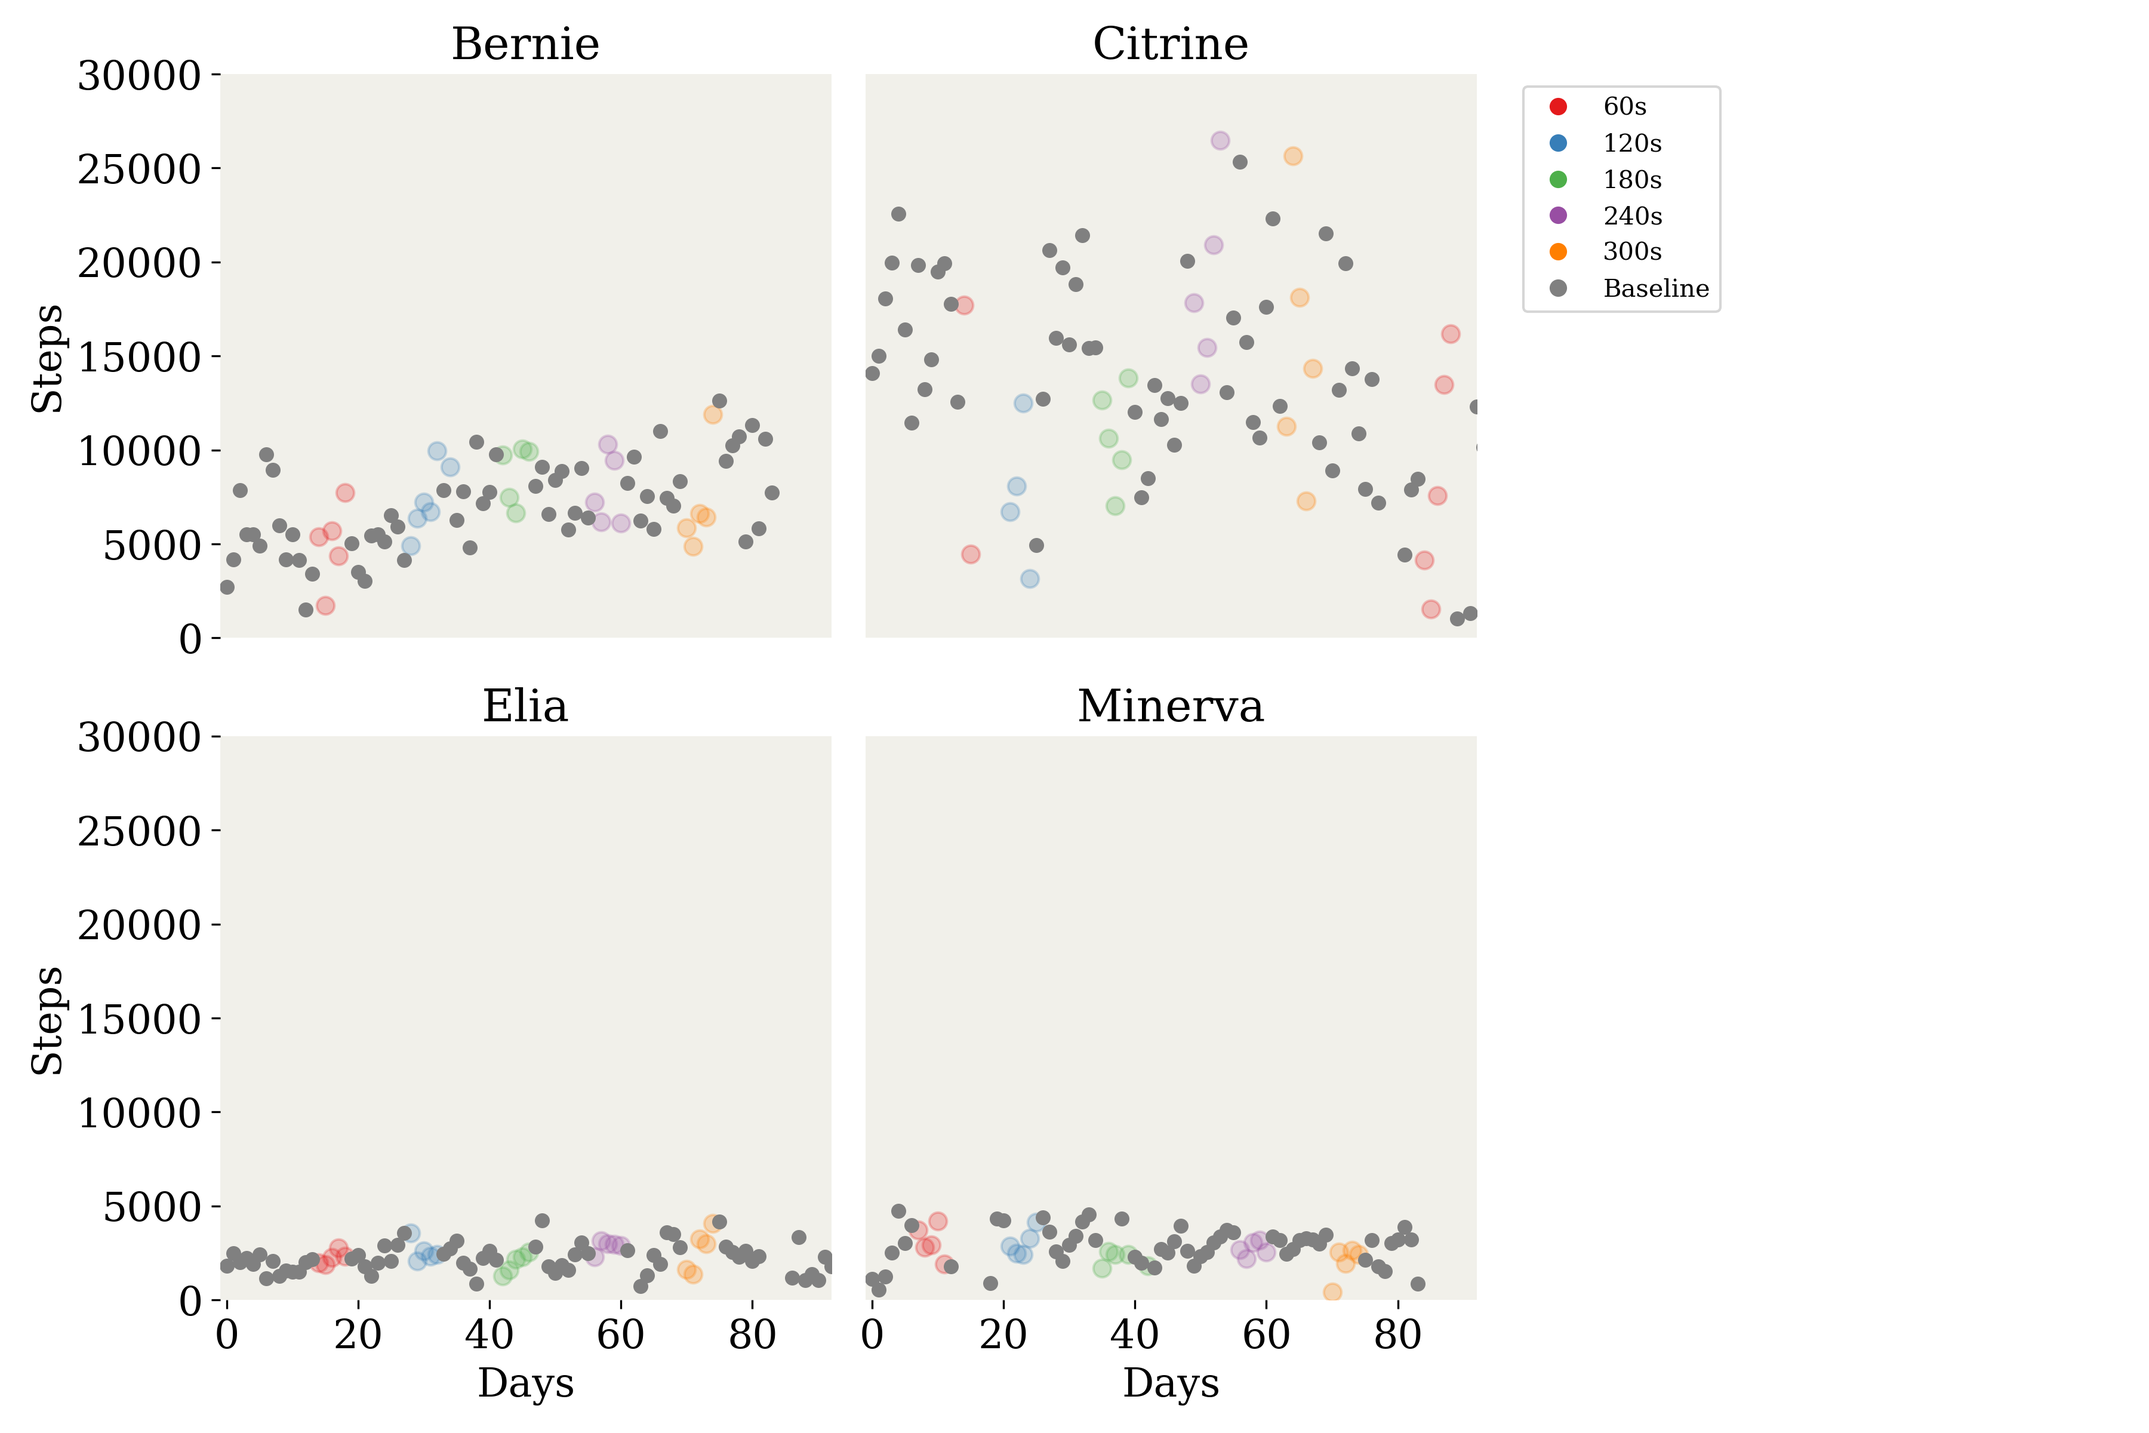
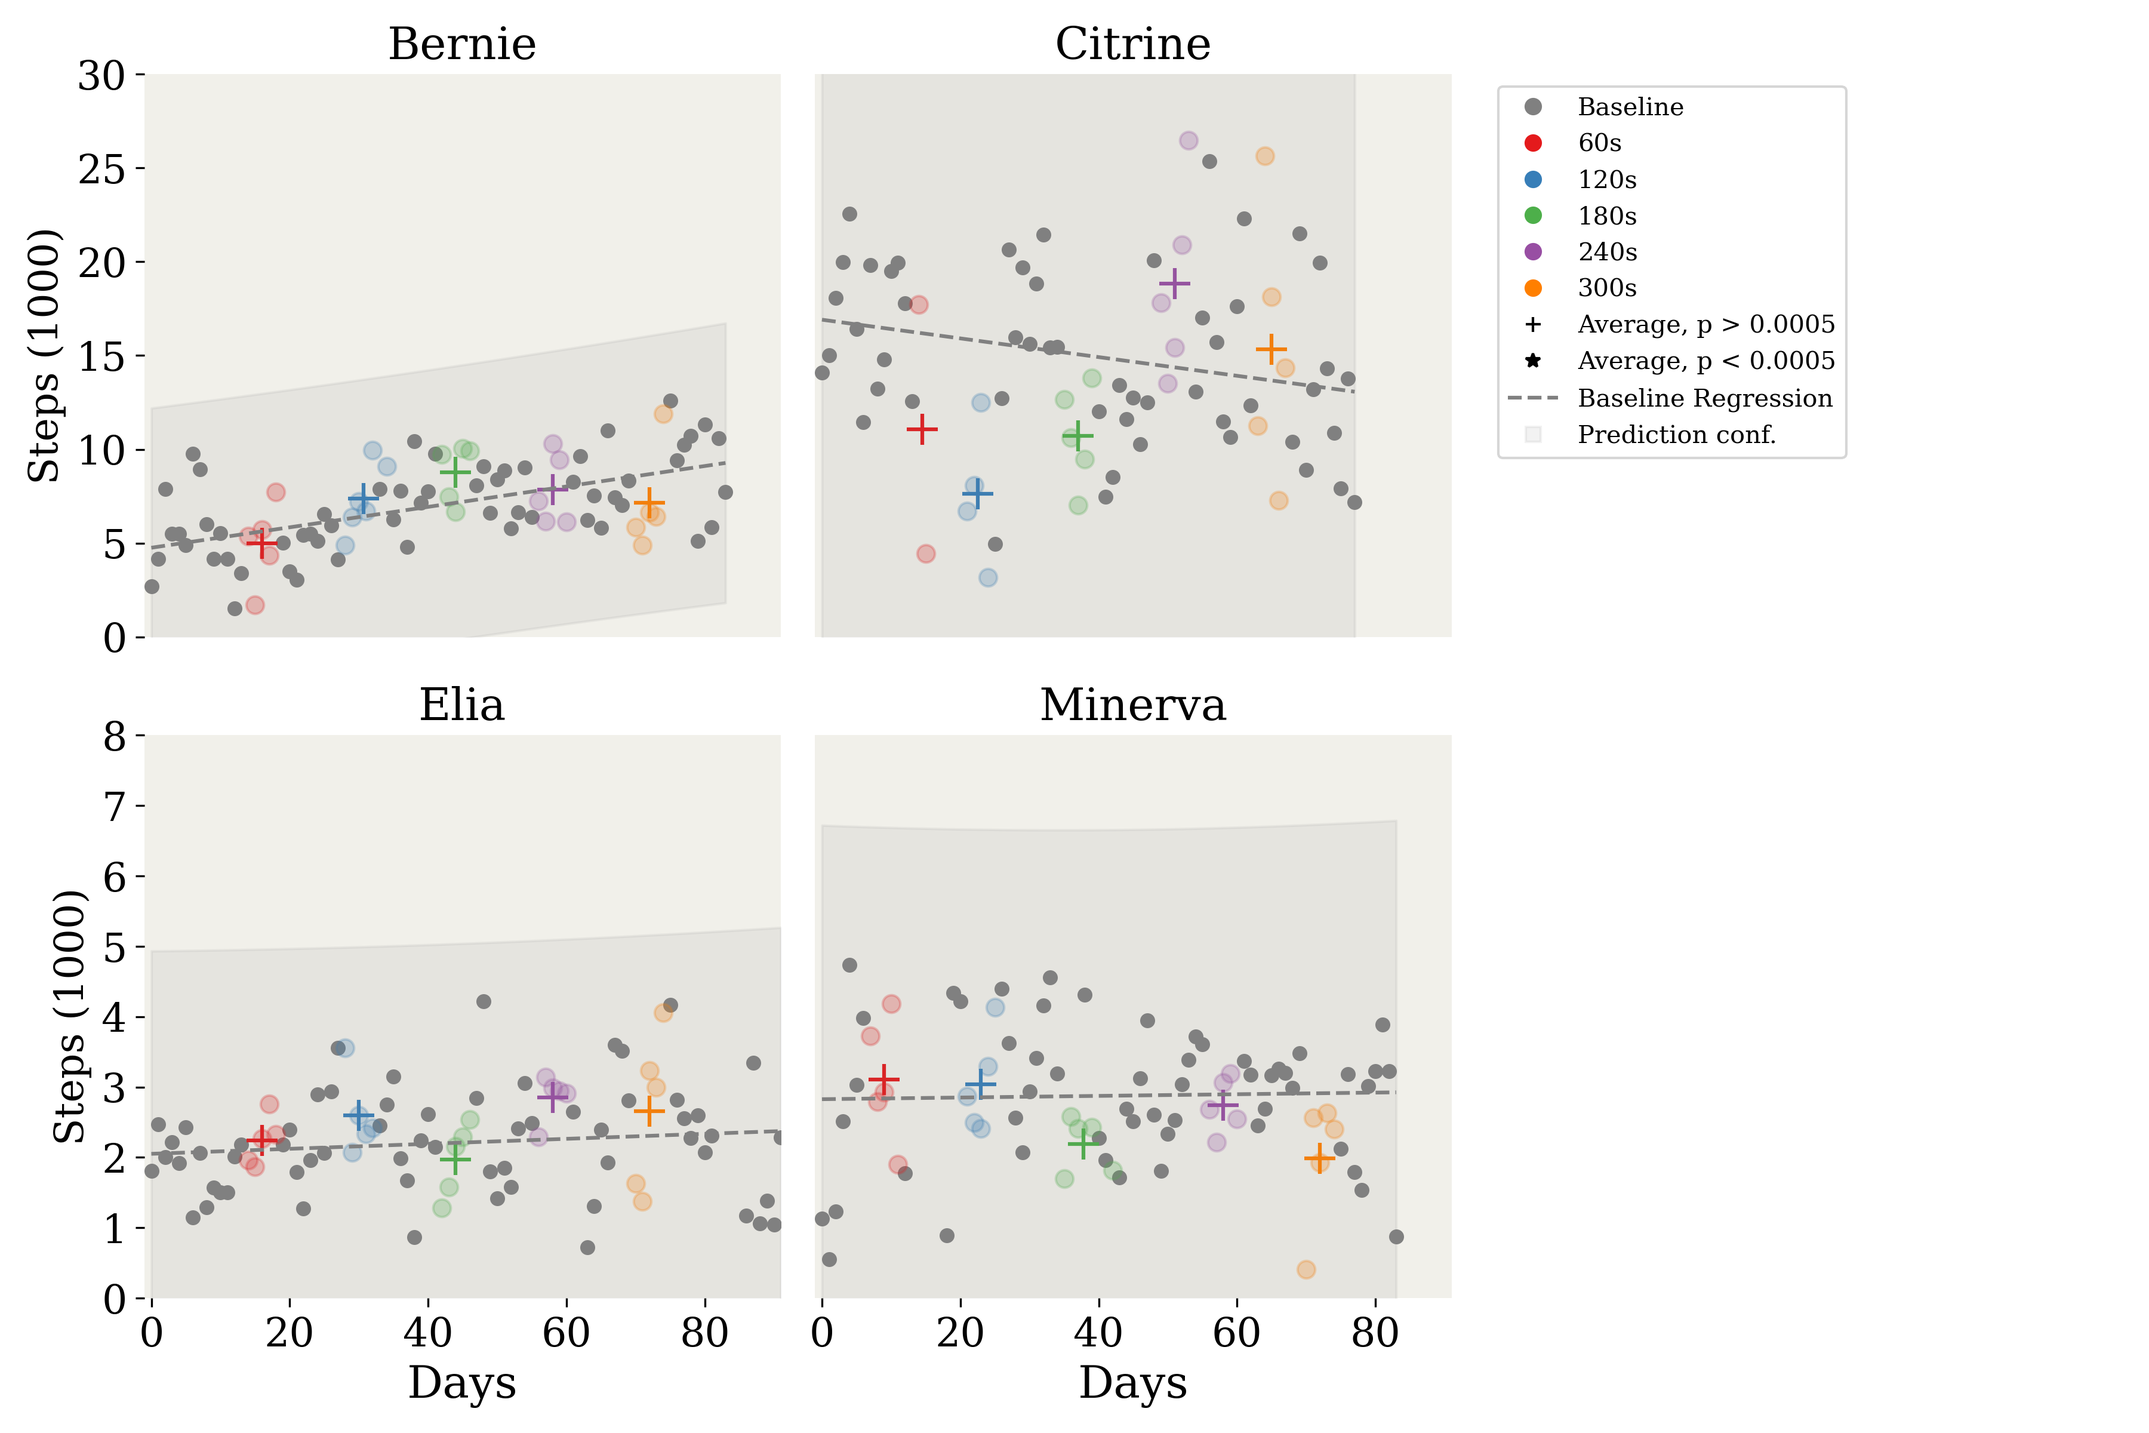
after

diff --git a/SCRIPT_process_steps.py b/SCRIPT_process_steps.py
@@ -1,133 +1,162 @@
 
-from Library import StepAnalysis
-from Library import Legend
-from matplotlib import pyplot as plt
+import numpy
+import numpy as np
+import natsort
+
+from Library import Stats
 from Library import Settings
+from Library import Utils
+from Library import Legend
+from Library import StepAnalysis
+from scipy.stats import ttest_ind
+from matplotlib import pyplot as plt
+from scipy.stats import kstest, norm
 import matplotlib
 
+##########################
+alpha_level = 0.0005
 output_folder = 'steps_output/'
+dependent_variable = 'steps'
+figure_size = (12, 8)
+
+# This is generated by SCRIPT_process_drinking.py
+max_days_per_cat = {'Bernie': 83, 'Citrine': 77, 'Elia': 91, 'Minerva': 83}
+max_day_range = 91
+##########################
 
 matplotlib.rcParams['font.family'] = 'serif'
-data = StepAnalysis.read_data()
-data = data.query('steps > 0')
-#%%
 colors = Settings.colors
+data = StepAnalysis.read_data()
 
-intervention_data = data.query('Intervention == True')
-baseline_data = data.query('Intervention == False')
+cats = list(data.subject.unique())
+cats = natsort.natsorted(cats)
+intervals = data.interval.unique()
+intervals = intervals[~np.isnan(intervals)]
 
-figure_size = (12, 8)
+
 plt.figure(figsize=figure_size)
+tests_output = open(f'{output_folder}statistics_steps.txt', 'w')
 
-# Calculate total steps per Subject, Per Date
-grp = data.groupby(['Subject', 'interval', 'date'], observed=False)
-# Use agg to Create a column that is the sum of steps per group
-# and one that is max of daily_tots per group
-grp = grp.agg({'steps': ['sum', 'count'], 'daily_tots': 'max'})
-grp = grp.reset_index()
-# Save the data to an Excel file in the output folder
-grp.to_excel(f"{output_folder}check_steps.xlsx")
+for plot_index, cat_name in enumerate(cats):
+    if plot_index == 0: plot_nr = 1
+    if plot_index == 1: plot_nr = 2
+    if plot_index == 2: plot_nr = 4
+    if plot_index == 3: plot_nr = 5
 
+    plt.subplot(2, 3, plot_nr)
+    selected_cat = data.query('subject ==@cat_name')
+    selected_cat.loc[:, 'days'] = selected_cat['days'] - numpy.min(selected_cat['days'])
+    max_allowed_day = max_days_per_cat[cat_name]
+    selected_cat = selected_cat.query('days <= @max_allowed_day')
 
-for panel in [1, 2, 4, 5]:
-    if panel == 1: cat = 'Bernie'
-    if panel == 2: cat = 'Citrine'
-    if panel == 4: cat = 'Elia'
-    if panel == 5: cat = 'Minerva'
+    grp = selected_cat.groupby(['days', 'interval', 'Intervention'], observed=False)
+    grp = grp['steps'].sum()
+    selected_cat = grp.reset_index()
+    selected_cat['steps'] = selected_cat['steps'] / 1000
+    selected_cat = selected_cat.query('steps > 0') # Remove the days where the cat did not wear the Fitbit
+
+    # Run regression on baseline data
+    base_line_data = selected_cat.query('Intervention == False')
+    regression_result = Stats.regression(base_line_data, dependent_variable, alpha_level)
+    residuals = regression_result['residuals']
 
     custom_legend = Legend.CustomLegend()
+    for interval in intervals:
+        selected_interval_data = selected_cat.query('interval == @interval')
 
-    plt.subplot(2, 3, panel)
+        transparency = 1
+        size = 50
 
-    # Get intervention data for the specific cat
-    selected_intervention = intervention_data.query('Subject == @cat')
-    grp = selected_intervention.groupby(['days_since_first', 'interval'], observed=False)
-    grp = grp['steps'].sum()
-    intervention_steps = grp.reset_index()
-    intervention_steps['steps'] = intervention_steps['steps']
+        if interval > 0: transparency = 0.25
+        if interval == 0: size = 25
+        interval_str = str(int(interval))
+        if interval_str == '0': interval_str = 'baseline'
+        plt.scatter(selected_interval_data.days, selected_interval_data[dependent_variable], color=colors[interval_str], alpha=transparency, s=size)
+        custom_legend.add_entry(label='Baseline', color='gray', marker='o', linestyle='')
 
-    intervention60 = intervention_steps.query('interval == 60')
-    intervention120 = intervention_steps.query('interval == 120')
-    intervention180 = intervention_steps.query('interval == 180')
-    intervention240 = intervention_steps.query('interval == 240')
-    intervention300 = intervention_steps.query('interval == 300')
+        if interval > 0:
+            current_color = colors[interval_str]
+            mn_day = numpy.mean(selected_interval_data.days)
+            prediction_mean = Stats.predict(regression_result, mn_day)
+            prediction_std = regression_result['prstd']
+            shifted_residuals = residuals + prediction_mean
+            shifted_residuals_std = np.std(shifted_residuals)
+            session_data = selected_interval_data[dependent_variable].values
+            print(shifted_residuals_std, prediction_std)
 
-    # Get baseline data for the specific cat
-    selected_baseline = baseline_data.query('Subject == @cat')
-    grp = selected_baseline.groupby(['days_since_first'], observed=False)
-    grp = grp['steps'].sum()
-    baseline_steps = grp.reset_index()
-    baseline_steps['steps'] = baseline_steps['steps']
+            try:
+                session_data = session_data[~np.isnan(session_data)]
+                stat, ks_result_p = kstest(session_data, 'norm', args=(prediction_mean, shifted_residuals_std))
+            except ValueError as ve:
+                stat = 'NaN'
+                ks_result_p = 1
 
-    # Plot the intervention data
-    transparency = 0.25
-    size = 50
+            formatted1 = Utils.format_ktest_result_apa(stat, ks_result_p, alpha_level)
 
-    plt.scatter(intervention60['days_since_first'], intervention60['steps'], color=colors['60'], label='60s', s=size, alpha=transparency)
-    plt.scatter(intervention120['days_since_first'], intervention120['steps'], color=colors['120'], label='120s', s=size, alpha=transparency)
-    plt.scatter(intervention180['days_since_first'], intervention180['steps'], color=colors['180'], label='180s', s=size, alpha=transparency)
-    plt.scatter(intervention240['days_since_first'], intervention240['steps'], color=colors['240'], label='240s', s=size, alpha=transparency)
-    plt.scatter(intervention300['days_since_first'], intervention300['steps'], color=colors['300'], label='300s', s=size, alpha=transparency)
+            tt_result = ttest_ind(session_data, shifted_residuals)
+            tt_result_p = tt_result[1]
+            formatted2 = Utils.format_ttest_result_apa(tt_result, alpha_level)
 
-    custom_legend.add_entry(label='60s', color= colors['60'], marker='o', linestyle='')
-    custom_legend.add_entry(label='120s', color= colors['120'], marker='o', linestyle='')
-    custom_legend.add_entry(label='180s', color= colors['180'], marker='o', linestyle='')
-    custom_legend.add_entry(label='240s', color= colors['240'], marker='o', linestyle='')
-    custom_legend.add_entry(label='300s', color= colors['300'], marker='o', linestyle='')
+            marker = '+'
+            size = 150
+            if ks_result_p < alpha_level: marker = '*'
+            mn_session = numpy.nanmean(selected_interval_data[dependent_variable])
+            plt.scatter(mn_day, mn_session, marker=marker, s=150, color=current_color)
+            if interval == '60': interval = '  ' + interval
+            custom_legend.add_entry(label=interval_str + 's', color=current_color, marker='o', linestyle='')
+            #print(interval, predicted, mn_session, max_day)
+            print(cat_name, interval, formatted1, formatted2)
+            statistics_line = f'{cat_name}, interval: {interval}, {formatted1}, {formatted2}\n'
+            tests_output.write(statistics_line)
 
-    # Plot the baseline data
-    transparency = 1
-    size = 25
+    custom_legend.add_entry(label=f'Average, p > {alpha_level}', color='black', marker='+', linestyle='')
+    custom_legend.add_entry(label=f'Average, p < {alpha_level}', color='black', marker='*', linestyle='')
+    custom_legend.add_entry(label='Baseline Regression', color='gray', marker='None', linestyle='--')
+    custom_legend.add_entry(label='Observation conf.', color='gray', marker='s', linestyle='None', alpha=0.1)
 
-    plt.scatter(baseline_steps['days_since_first'], baseline_steps['steps'], color='grey', label='Baseline', s=size, alpha=transparency)
-    custom_legend.add_entry(label='Baseline', color='grey', marker='o', linestyle='')
+    Stats.plot_line(regression_result, colors['baseline'])
+    if cat_name in ['Bernie', 'Citrine']: plt.ylim(0, 30)
+    if cat_name in ['Elia', 'Minerva']: plt.ylim(0, 8)
+    plt.xlim(-1, max_day_range)
 
-    # Markup of the plot
-    plt.ylim(0,30000)
-    plt.xlim(-1, 92)
+    plt.title(cat_name, fontsize=18)
+
+    ax = plt.gca()
+
+    if plot_index in [0, 2]: plt.ylabel('Steps (1000)', fontsize=16)
+    if plot_index not in [0,2]: ax.set_yticks([])
+    if plot_index in [0, 1]: ax.set_xticks([])
+    plt.xlabel('Days', fontsize=18)
+    if plot_index in [0, 1]: plt.xlabel('')
+
+    ax.spines['top'].set_visible(False)
+    ax.spines['right'].set_visible(False)
+    ax.spines['left'].set_visible(False)
+    ax.spines['bottom'].set_visible(False)
 
     plt.xticks(fontsize=16)  # X-axis tick labels font size
     plt.yticks(fontsize=16)  # Y-axis tick labels font size
 
     ax = plt.gca()
     ax.set_facecolor('#F1F0EA')
-    ax.spines['top'].set_visible(False)
-    ax.spines['right'].set_visible(False)
-    ax.spines['left'].set_visible(False)
-    ax.spines['bottom'].set_visible(False)
-
-    plt.xlabel('Days', fontsize=16)
-    plt.ylabel('Steps', fontsize=16)
-    plt.title(cat, fontsize=18)
-
-    if panel == 1:
-        plt.xticks([])
-        plt.xlabel('')
-    if panel == 2:
-        plt.xticks([])
-        plt.yticks([])
-        plt.xlabel('')
-        plt.ylabel('')
-    if panel == 4:
-        pass
-    if panel == 5:
-        plt.yticks([])
-        plt.ylabel('')
 
 
 plt.subplot(2, 3, 3)
 plt.axis('off')
 custom_legend.draw_legend('upper left')
 plt.tight_layout()
-
+#
 output_file = f"{output_folder}steps.png"
 plt.savefig(output_file, dpi=300)
 plt.show()
+tests_output.close()
 
-
-# Tests
-test1 = data.query('Subject == "Minerva" & interval in [60, 180]')
-test1.to_excel(f"{output_folder}test1.xlsx")
-
-test2 = data.query('interval==60 & Subject == "Bernie"')
-test2.to_excel(f"{output_folder}test2.xlsx")
+#     # plt.figure()
+#     # plt.hist(residuals, color=colors['baseline'])
+#     # plt.show()
+#
+#
+# # output_file = f"{output_folder}phase_{phase}_averages.xlsx"
+# # grps = data.groupby(['subject', 'interval'])
+# # mn = grps.session.agg(['mean', 'std'])
+# # mn.to_excel(output_file, index=True)

diff --git a/SCRIPT_process_drinking.py b/SCRIPT_process_drinking.py
@@ -17,6 +17,8 @@ alpha_level = 0.0005
 output_folder = 'drinking_output/'
 ##########################
 
+max_days_log = {}
+
 for dependent_variable in ['session', 'overnight', 'total']:
 
     if phase == 1:
@@ -52,6 +54,7 @@ for dependent_variable in ['session', 'overnight', 'total']:
         selected_cat = data.query('subject ==@cat_name')
         selected_cat.loc[:, 'days'] = selected_cat['days'] - numpy.min(selected_cat['days'])
         max_day = numpy.max(selected_cat.days)
+        max_days_log[cat_name] = max_day
         base_line_data = selected_cat.query('interval == "baseline"')
         regression_result = Stats.regression(base_line_data, dependent_variable, alpha_level)
         residuals = regression_result['residuals']
@@ -73,14 +76,13 @@ for dependent_variable in ['session', 'overnight', 'total']:
                 prediction_mean = Stats.predict(regression_result, mn_day)
                 prediction_std =  regression_result['prstd']
                 shifted_residuals = residuals + prediction_mean
-
+                shifted_residuals_std = np.std(shifted_residuals)
                 session_data = selected_data[dependent_variable].values
-
                 print(np.std(shifted_residuals), prediction_std)
 
                 try:
                     session_data = session_data[~np.isnan(session_data)]
-                    stat, ks_result_p = kstest(session_data, 'norm', args=(prediction_mean, prediction_std))
+                    stat, ks_result_p = kstest(session_data, 'norm', args=(prediction_mean, shifted_residuals_std))
                 except ValueError as ve:
                     stat = 'NaN'
                     ks_result_p = 1
@@ -106,7 +108,7 @@ for dependent_variable in ['session', 'overnight', 'total']:
         custom_legend.add_entry(label=f'Average, p > {alpha_level}', color='black', marker='+', linestyle='')
         custom_legend.add_entry(label=f'Average, p < {alpha_level}', color='black', marker='*', linestyle='')
         custom_legend.add_entry(label='Baseline Regression', color='gray', marker='None', linestyle='--')
-        custom_legend.add_entry(label='Prediction conf.', color='gray', marker='s', linestyle='None', alpha=0.1)
+        custom_legend.add_entry(label='Observation conf.', color='gray', marker='s', linestyle='None', alpha=0.1)
 
         Stats.plot_line(regression_result, colors['baseline'])
         plt.ylim(-10, max_plot_range)
@@ -154,3 +156,5 @@ output_file = f"{output_folder}phase_{phase}_averages.xlsx"
 grps = data.groupby(['subject', 'interval'])
 mn = grps.session.agg(['mean', 'std'])
 mn.to_excel(output_file, index=True)
+
+print(max_days_log)

diff --git a/Library/StepAnalysis.py b/Library/StepAnalysis.py
@@ -1,5 +1,5 @@
 import pandas as pd
-import numpy as np
+
 
 def read_data():
     data = pd.read_csv('data/SIP_fitbit_data.csv', index_col=0)
@@ -7,10 +7,12 @@ def read_data():
     data['TimeToFeeding'] = data['interval'] - data['rel_time']
     data['date'] = pd.to_datetime(data['date'])
     # Get the number of days since the first date for each subject
-    # This allows plotting data on a global timeline
-    data['days_since_first'] = data.groupby('Subject')['date'].transform(lambda x: (x - x.min()).dt.days)
+    # Rename "Subject" to "subject"
+    data = data.rename(columns={'Subject': 'subject'})
     # for each Subject, Hour and Date, keep one row
-    data = data.drop_duplicates(subset=['Subject', 'date', 'hour', 'interval'])
+    data = data.drop_duplicates(subset=['subject', 'date', 'hour', 'interval'])
+    earliest_date = data['date'].min()  # Find the earliest date
+    data['days'] = (data['date'] - earliest_date).dt.days  # Calculate days since earliest date
     return data
 
 

diff --git a/Library/Stats.py b/Library/Stats.py
@@ -1,7 +1,11 @@
-import statsmodels.api as sm
-import numpy as np
+
 from matplotlib import pyplot as plt
 from statsmodels.sandbox.regression.predstd import wls_prediction_std
+import numpy as np
+import statsmodels.api as sm
+
+
+
 
 def regression(data, column, alpha):
     x = data['days'].values
@@ -16,7 +20,7 @@ def regression(data, column, alpha):
     residuals = results.resid
     predictions = results.get_prediction(x_with_const).summary_frame(alpha)
     prstd, iv_l, iv_u = wls_prediction_std(results)
-    prstd = np.mean(prstd) # I don't know why prstd is an array. So, here I average it to a single number.
+    prstd = np.mean(prstd) #take the mean of the prstd
     # Create a dictionary with the results
     results_dict = {
         'x': x,

diff --git a/Library/Utils.py b/Library/Utils.py
@@ -60,7 +60,6 @@ def read_phase(phase):
     new_variables = ['interval', 'subject', 'date', 'weight', 'session', 'total', 'overnight']
     data.columns = new_variables
     data['interval'] = data['interval'].replace('NA (baseline or weekend)', 'baseline')
-    data['date'] = pd.to_datetime(data['date'])
     data['date'] = pd.to_datetime(data['date'])  # Convert 'date' column to datetime
     earliest_date = data['date'].min()  # Find the earliest date
     data['days'] = (data['date'] - earliest_date).dt.days  # Calculate days since earliest date
